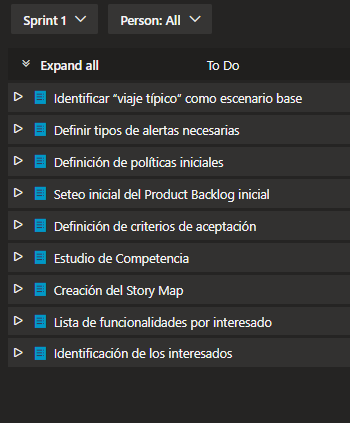
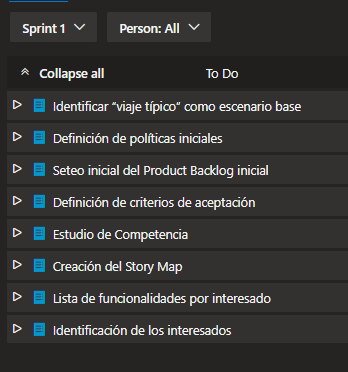
HU agregadas

diff --git a/iteración-1/README.md b/iteración-1/README.md
@@ -103,7 +103,7 @@ La reunión duró un total de 3 horas y culminamos que nos juntaremos en la pró
     - Se define al menos una funcionalidad principal y secundaria para cada tipo de usuario (conductor, pasajero y administrador).
     - Las funcionalidades están alineadas con las necesidades reales y los objetivos de cada tipo de usuario dentro del sistema.
   
-  - **Historia de usuario 3**: Análisis comparativo de apps similares
+- **Historia de usuario 3**: Análisis comparativo de apps similares
   - **Como**: Product Owner
   - **Quiero**: Analizar y comparar aplicaciones similares existentes en el mercado.
   - **Para**: Identificar oportunidades de mejora y diferenciación que aporten valor a nuestro producto.
@@ -111,7 +111,26 @@ La reunión duró un total de 3 horas y culminamos que nos juntaremos en la pró
     - Se identifican y analizan al menos tres aplicaciones similares del mercado, documentando sus funcionalidades, fortalezas y debilidades.
     - Se elabora un cuadro comparativo que evidencie coincidencias, diferencias y oportunidades de mejora frente a las apps existentes.
 
-- **Historia de usuario 7**: Creación del Product Backlog inicial
+- **Historia de usuario 4**: Identificación del “viaje típico” como escenario base
+    - **Como:** Equipo de Desarrollo  
+    - **Quiero:** Identificar y documentar el “viaje típico” que realizan los usuarios dentro de la aplicación.  
+    - **Para:** Contar con un escenario base que sirva como referencia para el diseño de funcionalidades y la validación de futuras iteraciones.  
+
+    - **Criterios de aceptación:**
+        - Se debe describir un flujo completo de viaje, desde la búsqueda hasta la finalización del trayecto.  
+        - El escenario debe contemplar al menos un perfil de **conductor** y uno de **pasajero**.  
+        - El “viaje típico” debe quedar registrado como documento de referencia en el repositorio del proyecto.  
+
+- **Historia de usuario 5**: Definición de políticas iniciales
+  - **Como**: Product Owner  
+  - **Quiero**: Definir las políticas iniciales de uso, privacidad y comportamiento dentro de la plataforma.  
+  - **Para**: Garantizar un marco de funcionamiento claro y seguro para todos los usuarios.  
+  - **Criterios de aceptación**:
+      - Las políticas deben incluir al menos los aspectos de **cancelaciones** y **uso responsable de la aplicación**.
+      - Deben estar redactadas en lenguaje claro y publicadas en el apartado de información de la app.  
+      - El equipo debe validar las políticas con los roles de usuario (conductor, pasajero, administrador).
+
+- **Historia de usuario 6**: Creación del Product Backlog inicial
   - **Como**: Equipo de desarrollo
   - **Quiero**: Definir un Product Backlog inicial que incluya las épicas principales y sus respectivas historias de usuario.
   - **Para**: Contar con una base organizada y priorizada de trabajo que sirva como punto de partida para las próximas iteraciones.
@@ -119,7 +138,7 @@ La reunión duró un total de 3 horas y culminamos que nos juntaremos en la pró
     - El Product Backlog debe contener al menos las épicas principales con sus historias de usuario asociadas.
     - Cada historia de usuario debe estar redactada en el formato “Como…”, “Quiero…”, “Para…”.
 
-- **Historia de usuario 8**: Definición de criterios de aceptación
+- **Historia de usuario 7**: Definición de criterios de aceptación
 
     **Como:** Equipo de Desarrollo  
     **Quiero:** Conocer los criterios de aceptación para cada historia de usuario.  
@@ -129,7 +148,7 @@ La reunión duró un total de 3 horas y culminamos que nos juntaremos en la pró
     - Cada historia de usuario debe contar con criterios de aceptación redactados en un lenguaje claro, verificable y comprensible para todos los integrantes del equipo.  
     - Todas las historias de usuario deben incluir como mínimo **un criterio de aceptación**; si este no logra explicar completamente el requerimiento, deberán incluirse **al menos dos criterios de aceptación bien definidos**.  
 
-- **Historia de usuario 9**: Creación del Story Map
+- **Historia de usuario 8**: Creación del Story Map
 
   **Como:** Equipo de Desarrollo  
   **Quiero:** Crear un Story Map de alto nivel.  
